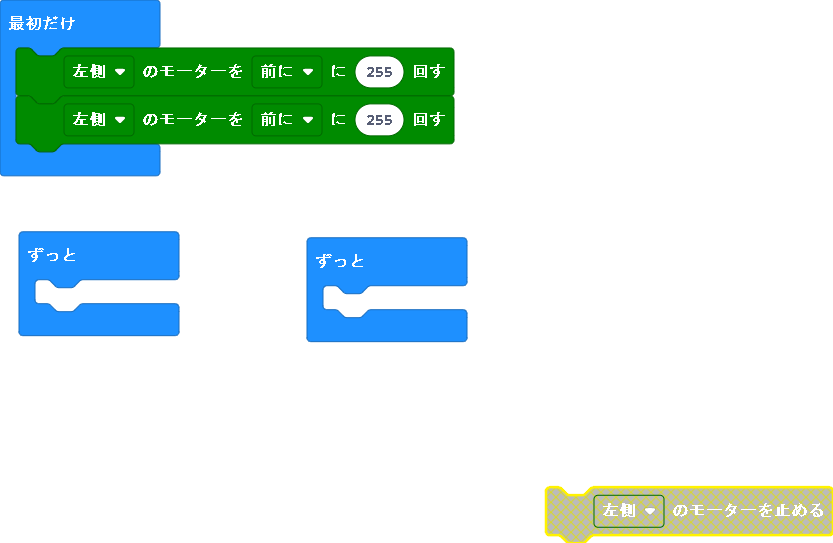
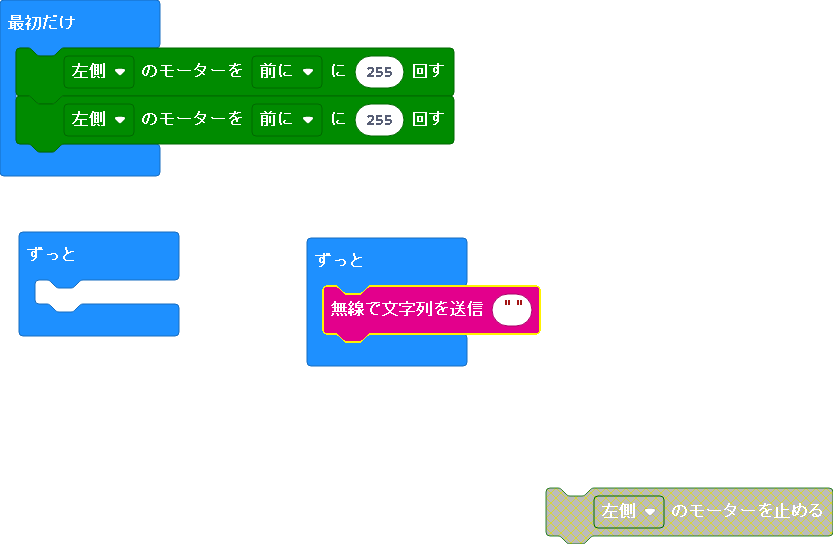
無線機能を追加

diff --git a/main.ts b/main.ts
@@ -4,5 +4,5 @@ basic.forever(function () {
 	
 })
 basic.forever(function () {
-	
+    radio.sendString("")
 })
